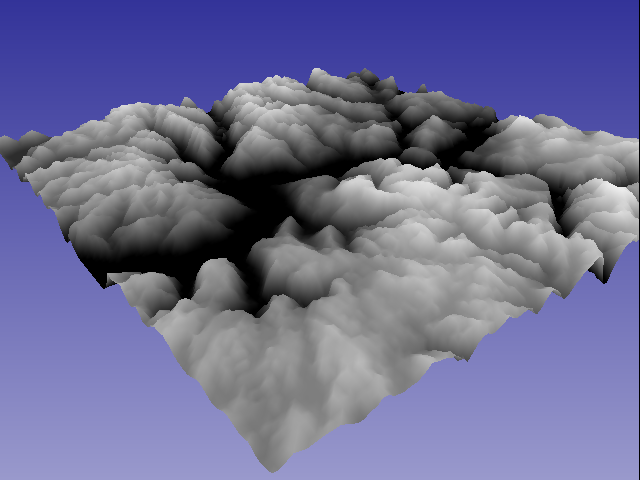
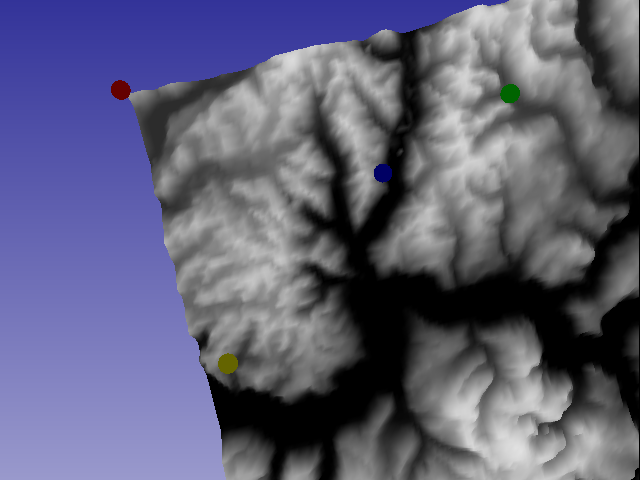
updates to trackers mode

diff --git a/trackers.py b/trackers.py
@@ -1,0 +1,19 @@
+def get_trackers_from_file(path):
+    trackers = []
+    with open(path, "r") as f:
+        for line in f:
+            line = line.strip()
+            if not line or line.startswith("#"):
+                continue
+            x,y,z,r,g,b = line.split(",")
+            trackers.append([float(x), float(y), float(z), int(r), int(g), int(b)])
+    return trackers
+
+if __name__ == "__main__":
+    import sys
+    if len(sys.argv) < 2:
+        print("Usage: python trackers.py <trackers_file>")
+        sys.exit(1)
+    trackers = get_trackers_from_file(sys.argv[1])
+    for t in trackers:
+        print(t)